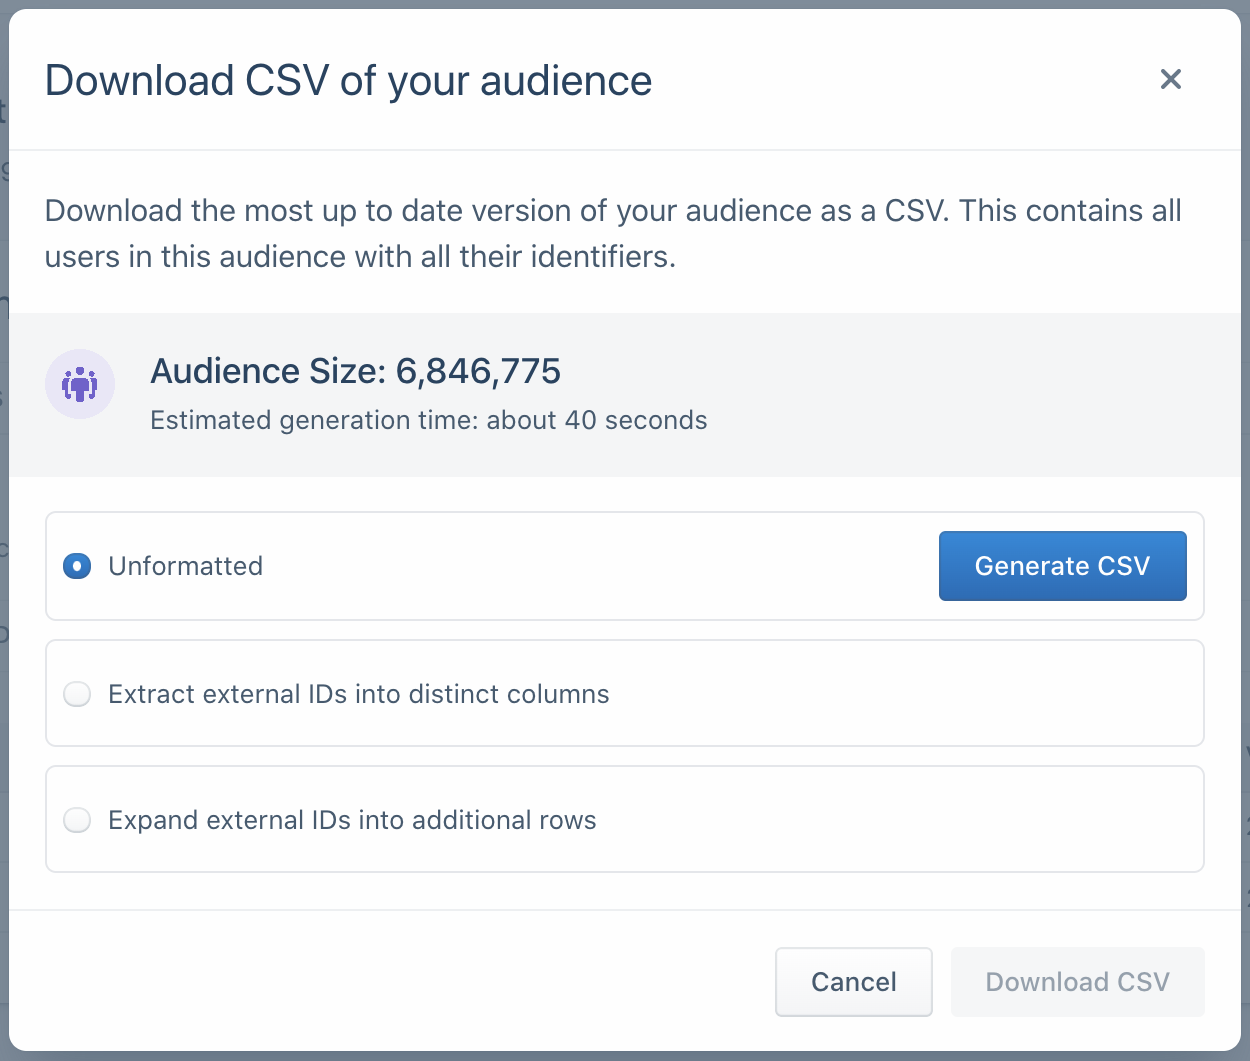
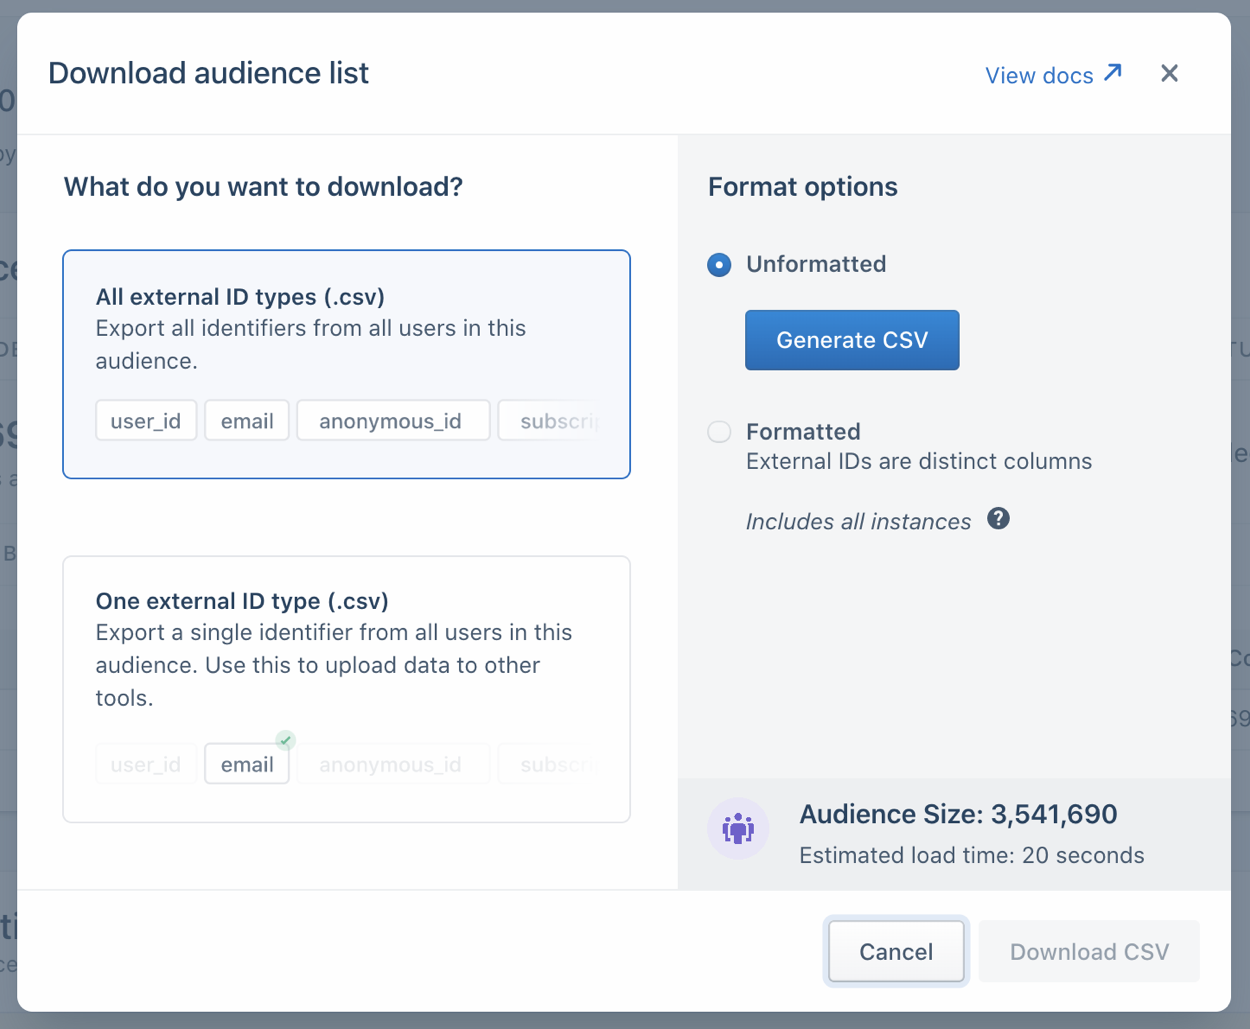
update personas docs given new audience CSV formats

diff --git a/src/personas/audiences.md b/src/personas/audiences.md
@@ -117,9 +117,9 @@ You can download a copy of your audience by visiting the the audience overview p
 ![](images/audience_overview.png)
 Audience CSVs are generated on demand. Before you can download the CSV, you will need to generate it. There are three different options for formatting:
 
-- **Unformatted:** Contains two columns. The first contains the user or account key and the second is a JSON object containing the external IDs. Generating this CSV is by far the fastest of the three options. [Download example unformatted CSV](files/audience_csv_format_a.csv)
-- **Distinct columns for unique external IDs (with indexed columns for ID types with multiple values):** Contains the same first two columns as the unformatted CSV. Additional columns are added for each distinct external ID type. When a given external ID type has more than one value, for example a user with three email addresses, _additional columns with indexed headers are added_, (`email`, `email_1`, `email_2`). [Download example formatted CSV with indexed columns](files/audience_csv_format_b.csv)
-- **Distinct columns for unique external IDs (with additional rows for ID types with multiple values):** Contains the same first two columns as the unformatted CSV. Additional columns are added for each distinct external ID type. When a given external ID type has more than one value, for example a user with two email addresses, _additional rows are added with the first two columns repeated (user or account key and external IDs JSON)._ [Download example formatted CSV with additional rows](files/audience_csv_format_c.csv)
+- **Unformatted:** Contains two columns. The first contains the user or account key and the second is a JSON object containing the external IDs. Generating this CSV is faster than the formatted option below. [Download example unformatted CSV](files/audience_csv_format_a.csv)
+- **Formatted (with indexed columns for ID types with multiple values):** Contains the same first two columns as the unformatted CSV. Additional columns are added for each distinct external ID type. When a given external ID type has more than one value, for example a user with three email addresses, _additional columns with indexed headers are added_, (`email`, `email_1`, `email_2`). [Download example formatted CSV with indexed columns](files/audience_csv_format_b.csv)
+- **Single Column (with one external ID type):** Contains only a single column of data with the selected external ID type. When the given external ID type has more than one value, for example a user with two email addresses, _additional rows are added._ Data in this format is hashed by default with the SHA256 hashing algorithm, but may be downloaded raw (unhashed) with appropriate permissions. This format is useful for uploading the audience to destinations like Snapchat or Braze, which may require a single column of hashed emails, for example. [Download example single column hashed CSV](files/audience_csv_format_c.csv)
 
 
 <table>
